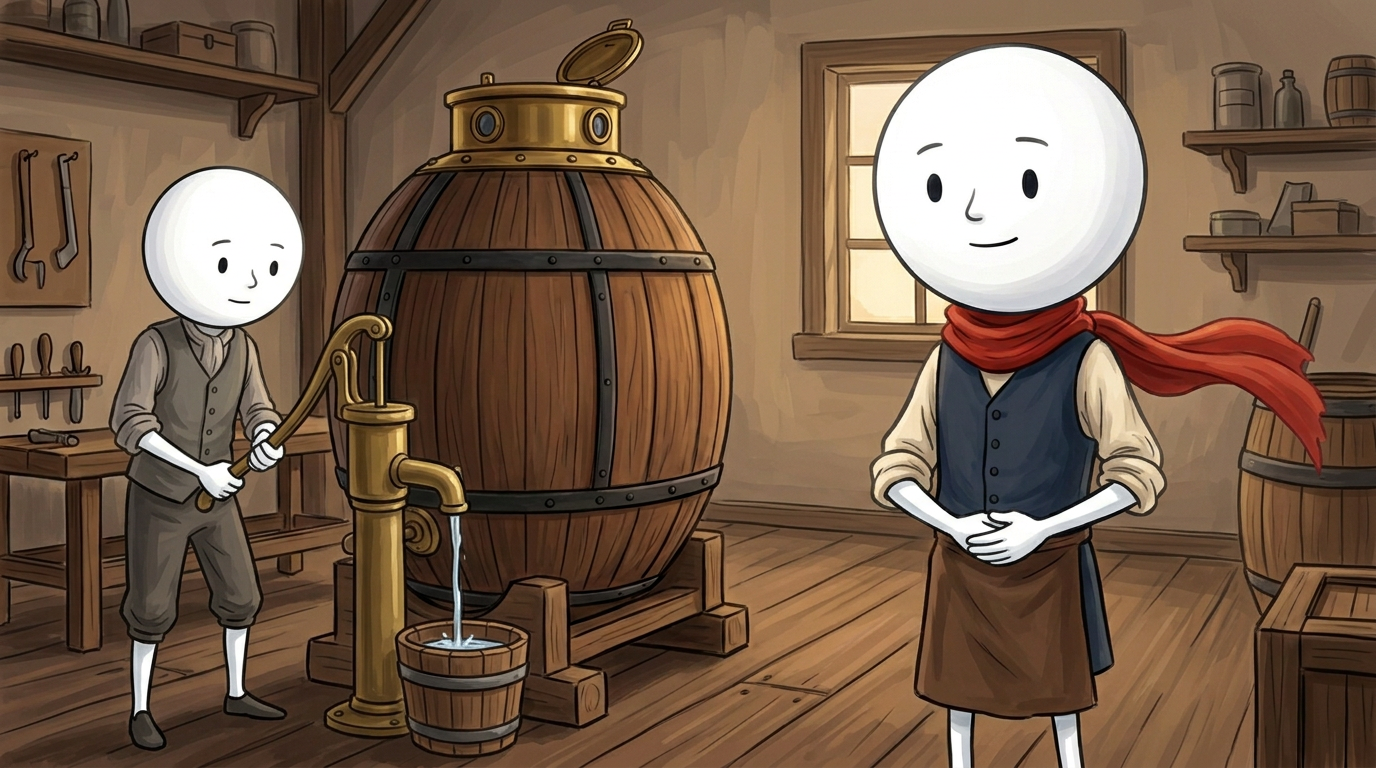
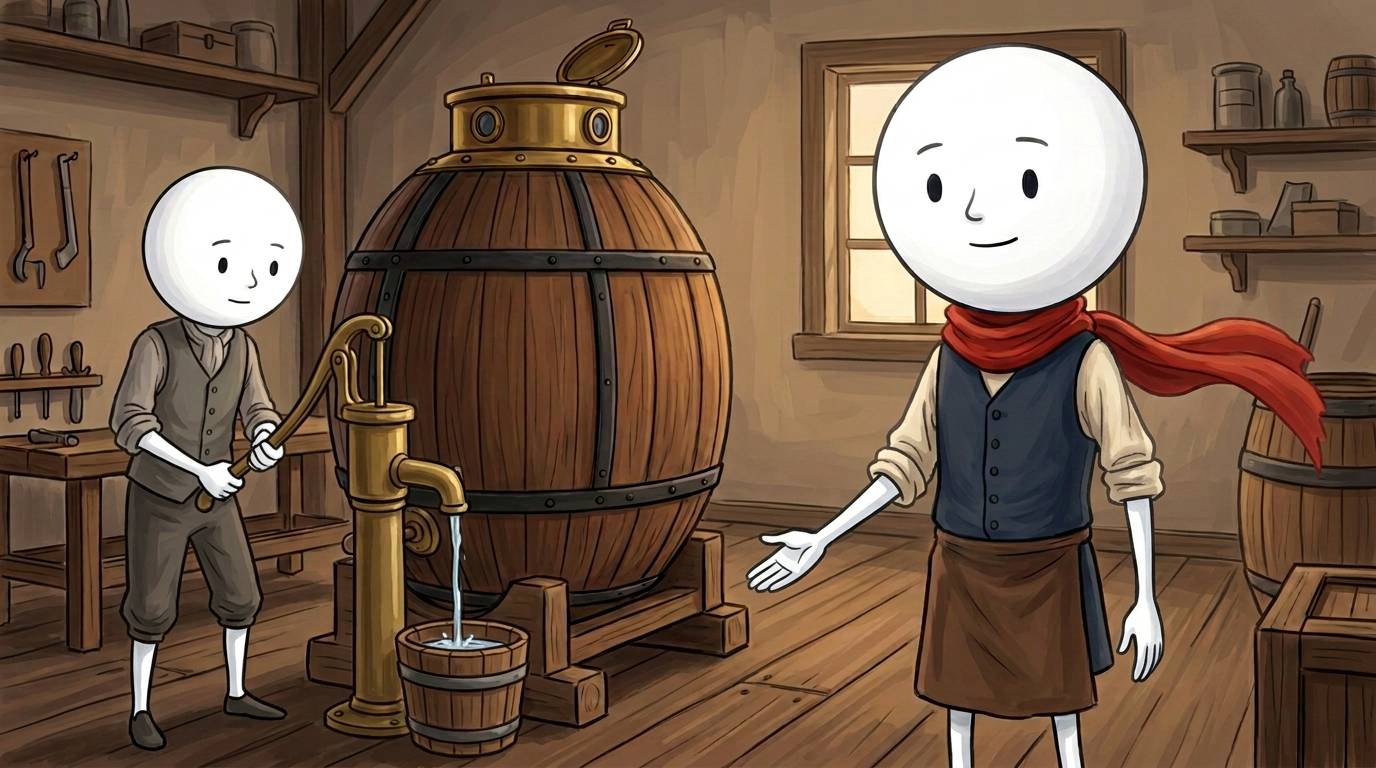
B027 s07 kullanici duzeltmesi: uc el hatasi giderildi, iki el ayrik

Changed region(s): [[0.5312, 0.4688, 0.8438, 0.9062]]

diff --git a/bolumler/027-turtle-denizalti/BOLUM-PLANI.md b/bolumler/027-turtle-denizalti/BOLUM-PLANI.md
@@ -134,8 +134,15 @@ Bugün gördüğün çizim veya müze aracı, bin yedi yüz yetmiş altıdan kal
 ## Tur A yenileme paketi
 - s04 yeni PASS: iki kol/iki el, eller bel önünde birleştirilmiş, üçüncü kol/eldeki halat kaldırıldı.
 - s04b yeni PASS: dik oval ahşap kabuk ve tek oturaklı dar temsili kesit; yatay fıçı sapması giderildi.
-- s07 PASS: karada temsili pompa gösterimi, iki figürün ikişer kol/eli kontrol edildi.
+- s07 ilk QA kararı kullanıcı kontrolünde geçersizleşti: birleşik el çiziminde üçüncü el görünümü kaçırılmıştı. Aşağıdaki kullanıcı düzeltmesi uygulanmıştır.
 - s08 PASS: boş ve alevsiz temsili iç mekân; modern ekran/oksijen tüpü yok.
 - Toplam sahne görselleri **9/25**: s01/s02/s03/s04/s04b/s05/s06/s07/s08. Bu tur 10 görsel çağrısı kullanıldı; daha fazla yoklama yapılmadı.
 - Metinler **20/20** hazır. Sesler **10/20**, voice-03, ham toplam **341,09 sn**.
 - SONRAKİ: önce tek yoklama → s08b/s09/s10 görselleri → s11–s20 sesler/görseller → QA ve mühür. Meraklı'nın s09 testi karada, kapak açık ve içeride yalnız kendisi; görev içi sahnelerde yalnız Lee, kırmızı fular YOK.
+
+## Kullanıcı düzeltmesi — s07 üç el hatası
+- Kullanıcı sunulan s07'de üç el olduğunu belirtti; önceki iç QA hatayı kaçırmıştı.
+- s07 düzenlendi: Meraklı'nın birleşik elleri kaldırıldı. Bir eli pompaya doğru açık, diğer eli gövdesinin dış yanında aşağıda; iki el birbirinden tamamen ayrı.
+- Yeni kontrol: Meraklı 2 kol / 2 el; pompa kolunu tutan yardımcı 2 kol / 2 el. Görselde toplam 4 el, fazladan beyaz el parçası yok. Sahne ve kıyafet korundu.
+- Düzeltilmiş görüntü `uzun/gorseller/s07.png` olarak eskisinin yerine alındı; kullanıcıya yeniden sunuldu. Sahne sayısı değişmedi: 9/25.
+- Sonraki QA'larda el sayısı kol sayısından ayrı kontrol edilecek; üst üste/kenetli el yerine açıkça ayrılmış eller tercih edilecek.
